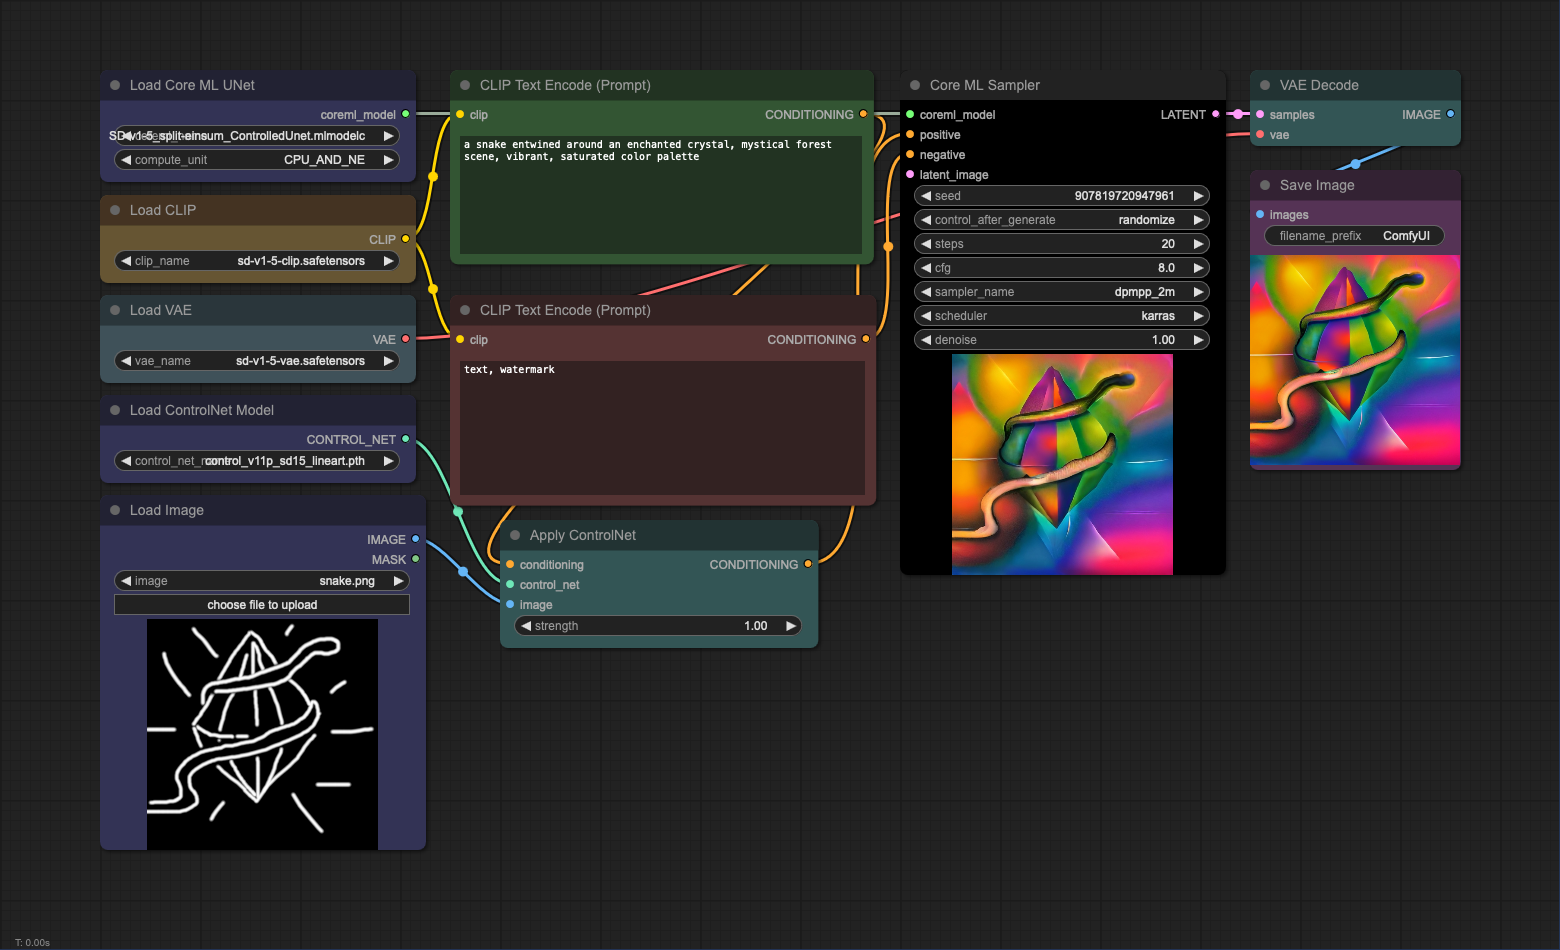
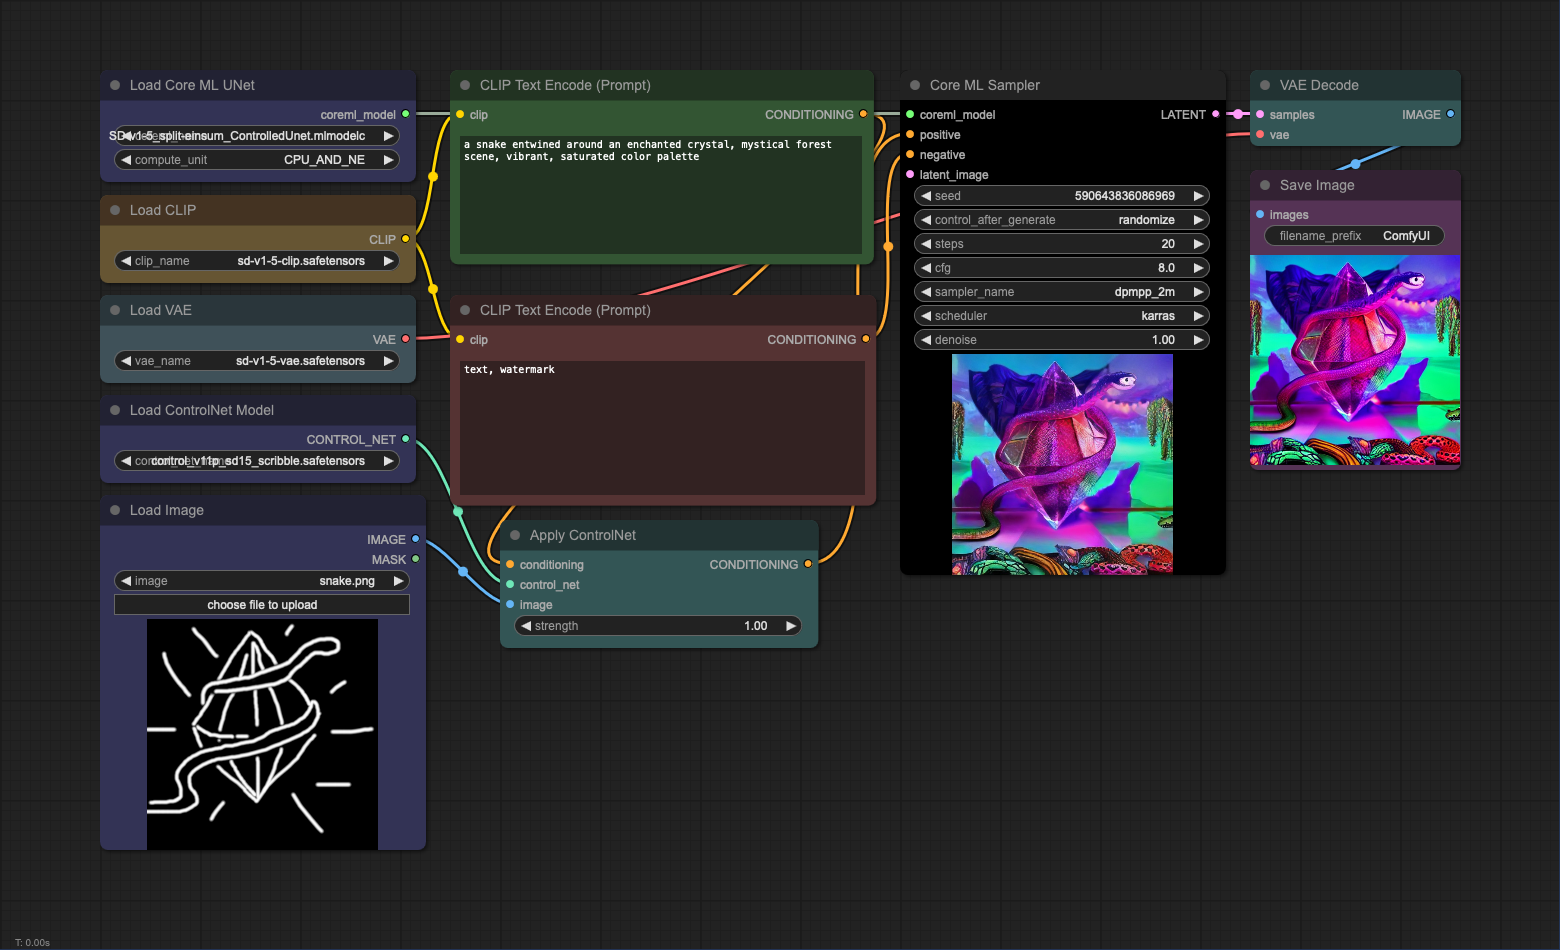
Update ControlNet workflow

diff --git a/README.md b/README.md
@@ -180,7 +180,7 @@ being loaded using the standard ComfyUI nodes. Please refer to
 the [basic txt2img workflow](#basic-txt2img-with-core-ml-unet-loader) for more details on how to load the CLIP and VAE
 models.
 The ControlNet model used in this workflow is available
-[here](https://huggingface.co/lllyasviel/ControlNet-v1-1/blob/main/control_v11p_sd15_lineart.pth).
+[here](https://huggingface.co/lllyasviel/control_v11p_sd15_scribble/blob/main/diffusion_pytorch_model.fp16.safetensors).
 Once downloaded, place the model in the `models/controlnet` directory.
 ![coreml-unet+controlnet](./assets/unet+sampler+controlnet.png?raw=true)
 
